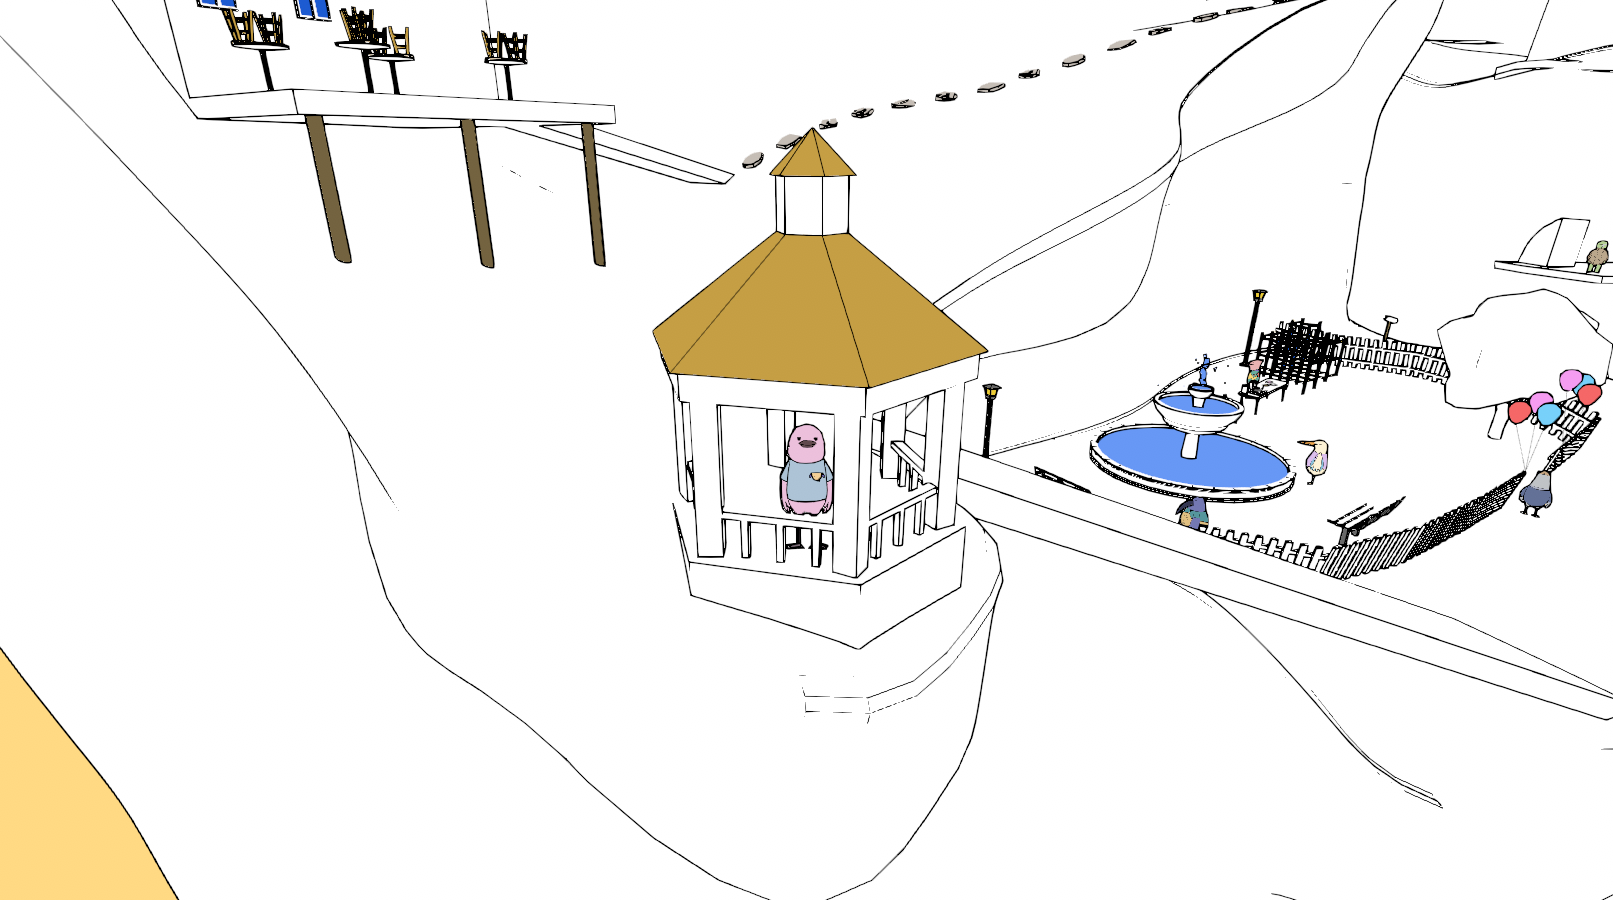
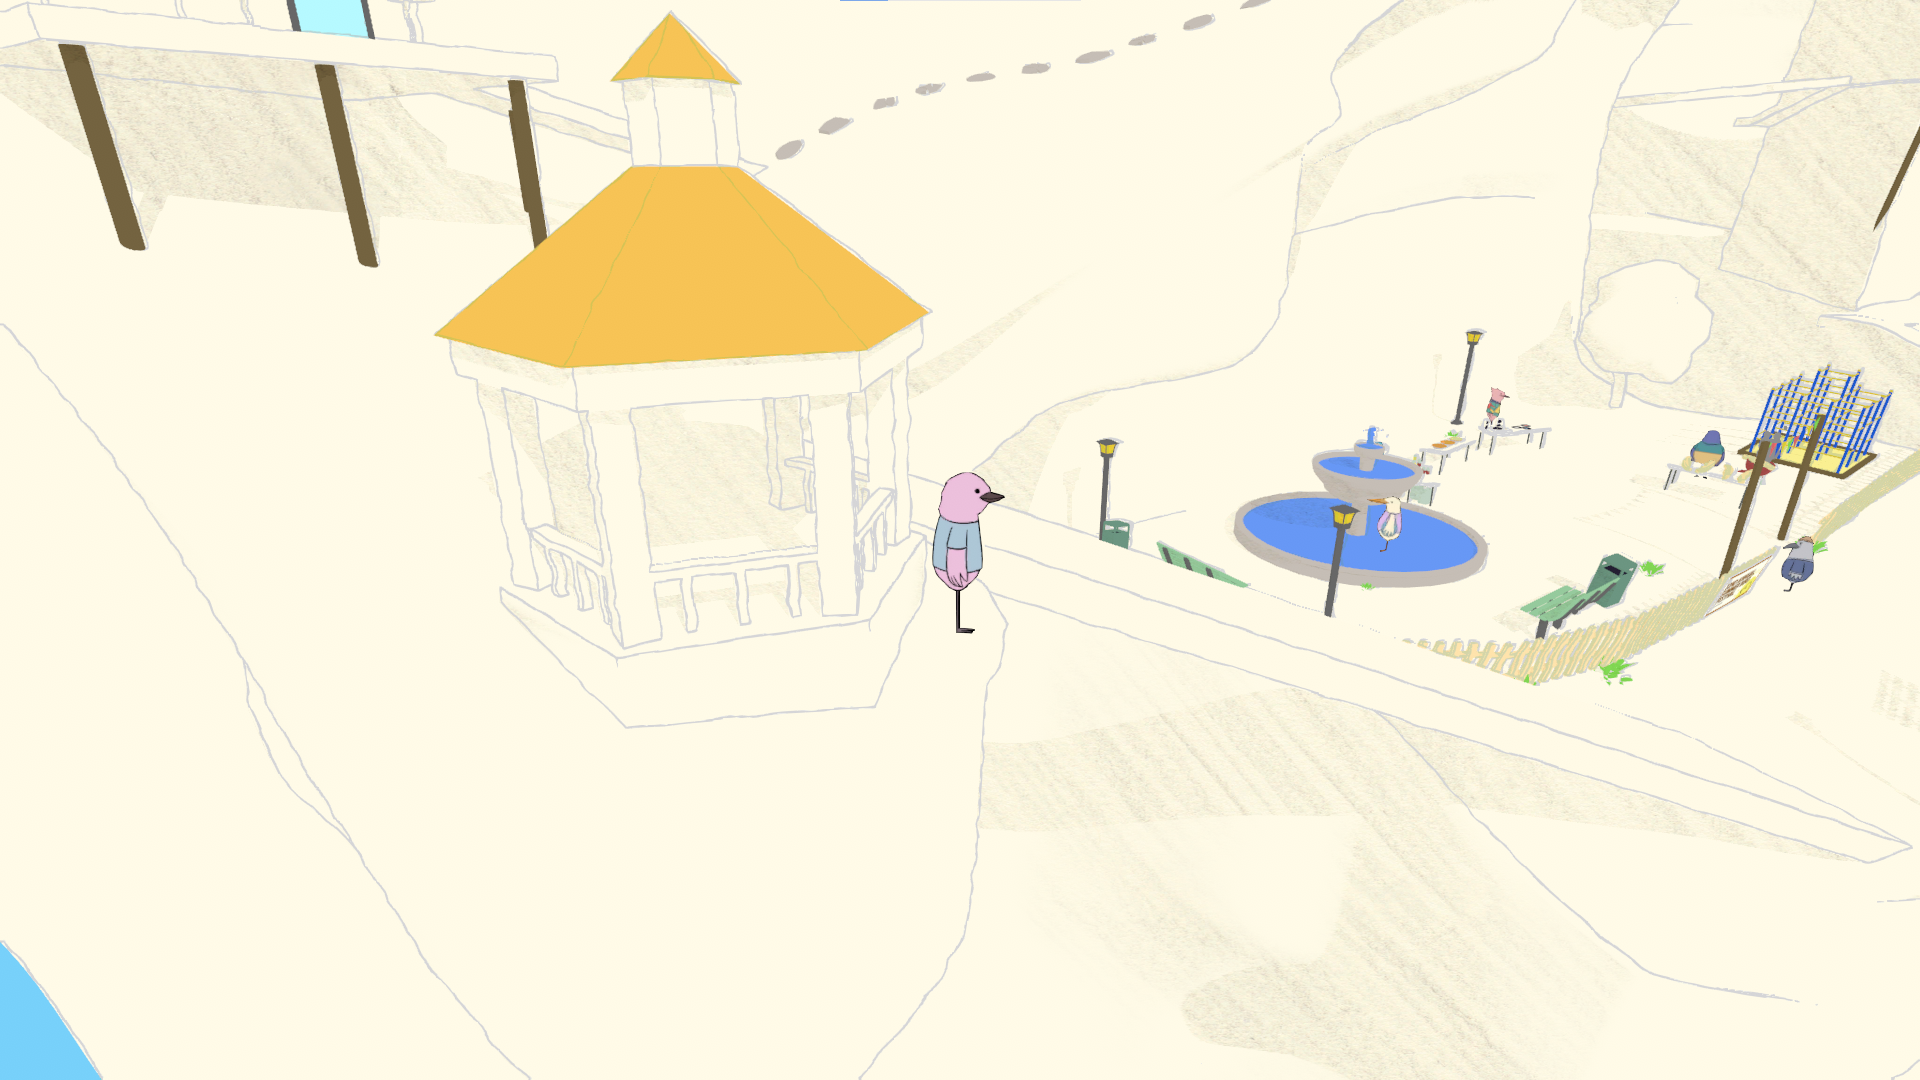
added new rules, updated colors, removed resume

diff --git a/index.html b/index.html
@@ -47,17 +47,13 @@
         <img src="media/homepage/beautiful_homepage.jpg"/>
         <img src="media/homepage/goodsex_homepage.png"/>
         <img src="media/homepage/birdtown_homepage.png"/>
+        <img src="media/homepage/newrules_homepage.jpg"/>
     </div>
 
     <div class="container">
         <nav class="dohide">
             <div class="navSidebar">
                 <a href="index.html" class="danny" style="font-size: 24.5px;">DANNY HAWK</a>
-                <div class="navLinks">
-                    <a class="inactive" href="about.html">ABOUT</a>
-                    <p>•</p>
-                    <a class="inactive" href="DannyHawk_Resume.pdf">RESUME</a>
-                </div>
                 <div class="social">
                     <a href="https://hawkdanny.itch.io/"><i id="itch" class="fab fa-itch-io"></i></a>
                     <a href="https://www.linkedin.com/in/hawkdanny/"><i id="linkedin" class="fab fa-linkedin-in"></i></a>
@@ -68,6 +64,8 @@
                 </div>
                 <div class="work">
                 <h3>WORK</h3>
+                <h5 class="y2021" style="padding-top:0px;">2021</h5>
+                <li class="y21 ev-s hl-s wr-s"><a href="https://newrules.website/2021/01/12/danny-hawk-folk-games-flash-communities-and-tiktok/"><p>Folk Games, Flash Communities, and Tiktok</p></a></li>
                 <h5 class="y2020" style="padding-top:0px;">2020</h5>
                 <li class="y20 ev-s hl-s vg-s"><a href="birdtown.html"><p>Bird Town</p></a></li>
                 <li class="y20 ev-s vi-s"><a href="saxophoneskateboard.html"><p>Saxophone Skateboard</p></a></li>
@@ -105,19 +103,32 @@
             <div class="header dohide">
                 <h1>Hi! My name's Danny and this is my portfolio!!! You can look at the
                 <a id="hl" class="filter" href="#highlights" onclick="filter('hl')">highlights</a>, or
-                <a id="ev" class="filter" href="#everything" onclick="filter('ev')">everything</a>. Other filters are
+                <a id="ev" class="filter" href="#everything" onclick="filter('ev')">everything</a>. <br><br>Other filters are
                 <a id="vg" class="filter" href="#videogames" onclick="filter('vg')">video games</a>,
                 <a id="ag" class="filter" href="#analoggames" onclick="filter('ag')">analog games</a>,
                 <a id="wb" class="filter" href="#web" onclick="filter('wb')">web</a>,
-                <a id="pc" class="filter" href="#physicalcomputing" onclick="filter('pc')">pcomp</a>,
+                <a id="pc" class="filter" href="#physicalcomputing" onclick="filter('pc')">physical computing</a>,
                 <a id="evn" class="filter" href="#events" onclick="filter('evn')">events</a>,
                 <!--<a id="ta" class="filter" href="#talks" onclick="filter('ta')">talks</a>,-->
-                <a id="vi" class="filter" href="#videos" onclick="filter('vi')">videos</a>, and
+                <a id="vi" class="filter" href="#videos" onclick="filter('vi')">videos</a>,
+                <a id="wr" class="filter" href="#writing" onclick="filter('wr')">writing</a> and
                 <a id="mi" class="filter" href="#misc" onclick="filter('mi')">misc</a>.<br>
-                I ask there is no flash photography, but please do enjoy your stay.
+                <br>I ask there is no flash photography, but please do enjoy your stay.
                 </h1>
             </div>
 
+
+            <a href="https://newrules.website/2021/01/12/danny-hawk-folk-games-flash-communities-and-tiktok/" class="ev hl wr">
+                <div id="newrules" class="project dohide" onmouseover="FadeInBackground(this)" onmouseout="FadeOutBackground(this)">
+                    <div class="projectInfo">
+                        <h1 class="projectTitle">FOLK GAMES, FLASH COMMUNITIES, AND TIKTOK</h1>
+                        <div class="projectDetails">
+                            <h5 class="projectDesc">An essay on how folk games have adapted to an algorihtmic world.</h5>
+                            <h5 class="projectCred">author</h5>
+                        </div>
+                    </div>
+                </div>
+            </a>
 
             <a href="birdtown.html" class="ev hl vg">
                 <div id="birdtown" class="project projectInvert dohide" onmouseover="FadeInBackground(this)" onmouseout="FadeOutBackground(this)">

diff --git a/css/global2.css b/css/global2.css
@@ -1,10 +1,11 @@
 :root {
-    --color-bg: rgb(238, 164, 201);
+    --color-bg: #ffffff;
     --color-header: #ffffff;
     --color-header2: #000000;
-    --color-text: #ffffff99;
-    --color-text2: #00000085;
+    --color-text: #00000085;
     --color-border: #000000;
+    --color-link: #ffc1e7;
+    --color-link-active: #f77ac7;
 }
 
 html {
@@ -96,7 +97,7 @@ nav a {
 }
 
 .navLinks a {
-    color: var(--color-text2);
+    color: var(--color-text);
 }
 
 .navLinks a:hover {
@@ -152,7 +153,7 @@ nav a {
     cursor: pointer;
     font-weight: 600;
     font-size: 14px;
-    color: var(--color-text2);
+    color: var(--color-text);
 }
 
 .navSidebar li a:hover {
@@ -169,6 +170,7 @@ nav a {
 .social {
     display: flex;
     justify-content: space-between;
+    padding-top: 15px;
 }
     .social i {
         color: #121212;
@@ -206,11 +208,11 @@ nav a {
 
 /*header*/
 .header a {
-    color: #FFFFFFAA;
+    color: var(--color-link);
 }
 
 .header a:hover {
-    color: #FFFFFF;
+    color: var(--color-link-active);
 }
 
 
@@ -225,8 +227,8 @@ nav a {
 }
 
 .filterActive {
-    color: white !important;
-    border-bottom: solid white 5px;
+    color: var(--color-link-active) !important;
+    border-bottom: solid var(--color-link-active) 5px;
 }
 
 
@@ -248,7 +250,7 @@ nav a {
 
 .projectInvert .projectTitle { color: var(--color-header2);}
 .projectInvert .projectDesc { color: var(--color-header2);}
-.projectInvert .projectCred { color: var(--color-text2);}
+.projectInvert .projectCred { color: var(--color-text);}
 
 .projectInfo {
     pointer-events: none;
@@ -292,6 +294,7 @@ nav a {
     margin: 0px;
 }
 
+#newrules { background-image: url(../media/homepage/newrules_homepage.png); }
 #birdtown { background-image: url(../media/homepage/birdtown_homepage.png); }
 #sax { background-image: url(../media/homepage/sax_homepage.jpg); }
 #folk { background-image: url(../media/homepage/folk_homepage.jpg); }
@@ -328,7 +331,7 @@ nav a {
     margin: 0px;
     font-size: 18px; 
     font-weight: bold;
-    color: var(--color-header);
+    color: var(--color-header2);
 }
 
 .projectPageContent {
@@ -366,7 +369,7 @@ nav a {
     font-size: 14px;
     padding-right: 15px;
     padding-top: 3px;
-    color: var(--color-header);
+    color: var(--color-header2);
 }
 
 .projectPageLinks {
@@ -374,14 +377,14 @@ nav a {
 }
 
 .projectPageLinks p {
-    color: var(--color-header);
+    color: var(--color-header2);
     font-size: 14px;
     display: block;
     margin: 0px;
 }
 
 .projectPageLinks a {
-    color: var(--color-header);
+    color: var(--color-header2);
     font-size: 14px;
     font-weight: bold;
     display: inline;
@@ -420,7 +423,7 @@ nav a {
 
 .fancyLink {
     font-size: 14px;
-    color: white;
+    color: black;
     position: relative;
 }
 
@@ -431,7 +434,7 @@ nav a {
     height: 1px;
     bottom: 0;
     left: 0;
-    background-color: white;
+    background-color: black;
     visibility: hidden;
     -webkit-transform: scaleX(0);
     transform: scaleX(0);
@@ -462,11 +465,11 @@ nav a {
 }
 
 .meLink {
-    color: var(--color-text2);
+    color: var(--color-text);
 }
 
 .meLink:hover {
-    border-bottom: 2px solid var(--color-text2);
+    border-bottom: 2px solid var(--color-text);
 }
 
 @media only screen and (max-width: 1470px) {

diff --git a/js/main2.js b/js/main2.js
@@ -33,6 +33,7 @@ function init() {
     years.y2018 = document.querySelector(".y2018");
     years.y2019 = document.querySelector(".y2019");
     years.y2020 = document.querySelector(".y2020");
+    years.y2021 = document.querySelector(".y2021");
 
     //sidebar year projects
     //years.y2015s = document.querySelectorAll(".y15");
@@ -41,6 +42,7 @@ function init() {
     years.y2018s = document.querySelectorAll(".y18");
     years.y2019s = document.querySelectorAll(".y19");
     years.y2020s = document.querySelectorAll(".y20");
+    years.y2021s = document.querySelectorAll(".y21");
 
     let url = new URL(window.location.href);
     if (url.hash !== "")
@@ -102,6 +104,9 @@ function filterFromURL(hash) {
         case "#videos":
             filter('vi');
         break;
+        case "#writing":
+            filter('wr');
+        break;
     }
 }
 
@@ -140,6 +145,7 @@ function filterProjects(clss) {
     filterSidebarYear(years.y2018, years.y2018s);
     filterSidebarYear(years.y2019, years.y2019s);
     filterSidebarYear(years.y2020, years.y2020s);
+    filterSidebarYear(years.y2021, years.y2021s);
 }
 
 function filterSidebarYear(year, years) {
@@ -218,6 +224,9 @@ function FadeInBackground(elmnt)
             break;
         case 'tabs':
             document.body.style.backgroundImage = "url('media/homepage/tabs_homepage.jpg')";
+            break;
+        case 'newrules':
+            document.body.style.backgroundImage = "url('media/homepage/newrules_homepage.png')";
             break;
     }
 }

diff --git a/anythingbutgames.html b/anythingbutgames.html
@@ -36,11 +36,6 @@
     <nav>
         <div class="navSidebar">
             <a href="index.html" class="danny" style="font-size: 24.5px;">DANNY HAWK</a>
-            <div class="navLinks" style="border-bottom: none;">
-                <a class="inactive" href="about.html">ABOUT</a>
-                <p>•</p>
-                <a class="inactive" href="DannyHawk_Resume.pdf">RESUME</a>
-            </div>
             <div class="social">
                 <a href="https://hawkdanny.itch.io/"><i id="itch" class="fab fa-itch-io"></i></a>
                 <a href="https://www.linkedin.com/in/hawkdanny/"><i id="linkedin" class="fab fa-linkedin-in"></i></a>

diff --git a/court.html b/court.html
@@ -36,11 +36,6 @@
     <nav>
         <div class="navSidebar">
             <a href="index.html" class="danny" style="font-size: 24.5px;">DANNY HAWK</a>
-            <div class="navLinks" style="border-bottom: none;">
-                <a class="inactive" href="about.html">ABOUT</a>
-                <p>•</p>
-                <a class="inactive" href="DannyHawk_Resume.pdf">RESUME</a>
-            </div>
             <div class="social">
                 <a href="https://hawkdanny.itch.io/"><i id="itch" class="fab fa-itch-io"></i></a>
                 <a href="https://www.linkedin.com/in/hawkdanny/"><i id="linkedin" class="fab fa-linkedin-in"></i></a>

diff --git a/dog.html b/dog.html
@@ -36,11 +36,6 @@
     <nav>
         <div class="navSidebar">
             <a href="index.html" class="danny" style="font-size: 24.5px;">DANNY HAWK</a>
-            <div class="navLinks" style="border-bottom: none;">
-                <a class="inactive" href="about.html">ABOUT</a>
-                <p>•</p>
-                <a class="inactive" href="DannyHawk_Resume.pdf">RESUME</a>
-            </div>
             <div class="social">
                 <a href="https://hawkdanny.itch.io/"><i id="itch" class="fab fa-itch-io"></i></a>
                 <a href="https://www.linkedin.com/in/hawkdanny/"><i id="linkedin" class="fab fa-linkedin-in"></i></a>

diff --git a/imagine.html b/imagine.html
@@ -36,11 +36,6 @@
     <nav>
         <div class="navSidebar">
             <a href="index.html" class="danny" style="font-size: 24.5px;">DANNY HAWK</a>
-            <div class="navLinks" style="border-bottom: none;">
-                <a class="inactive" href="about.html">ABOUT</a>
-                <p>•</p>
-                <a class="inactive" href="DannyHawk_Resume.pdf">RESUME</a>
-            </div>
             <div class="social">
                 <a href="https://hawkdanny.itch.io/"><i id="itch" class="fab fa-itch-io"></i></a>
                 <a href="https://www.linkedin.com/in/hawkdanny/"><i id="linkedin" class="fab fa-linkedin-in"></i></a>

diff --git a/litrocks.html b/litrocks.html
@@ -36,11 +36,6 @@
     <nav>
         <div class="navSidebar">
             <a href="index.html" class="danny" style="font-size: 24.5px;">DANNY HAWK</a>
-            <div class="navLinks" style="border-bottom: none;">
-                <a class="inactive" href="about.html">ABOUT</a>
-                <p>•</p>
-                <a class="inactive" href="DannyHawk_Resume.pdf">RESUME</a>
-            </div>
             <div class="social">
                 <a href="https://hawkdanny.itch.io/"><i id="itch" class="fab fa-itch-io"></i></a>
                 <a href="https://www.linkedin.com/in/hawkdanny/"><i id="linkedin" class="fab fa-linkedin-in"></i></a>

diff --git a/threetabs.html b/threetabs.html
@@ -36,11 +36,6 @@
     <nav>
         <div class="navSidebar">
             <a href="index.html" class="danny" style="font-size: 24.5px;">DANNY HAWK</a>
-            <div class="navLinks" style="border-bottom: none;">
-                <a class="inactive" href="about.html">ABOUT</a>
-                <p>•</p>
-                <a class="inactive" href="DannyHawk_Resume.pdf">RESUME</a>
-            </div>
             <div class="social">
                 <a href="https://hawkdanny.itch.io/"><i id="itch" class="fab fa-itch-io"></i></a>
                 <a href="https://www.linkedin.com/in/hawkdanny/"><i id="linkedin" class="fab fa-linkedin-in"></i></a>

diff --git a/beautiful.html b/beautiful.html
@@ -36,11 +36,6 @@
     <nav>
         <div class="navSidebar">
             <a href="index.html" class="danny" style="font-size: 24.5px;">DANNY HAWK</a>
-            <div class="navLinks" style="border-bottom: none;">
-                <a href="about.html">ABOUT</a>
-                <p>•</p>
-                <a href="DannyHawk_Resume.pdf">RESUME</a>
-            </div>
             <div class="social">
                 <a href="https://hawkdanny.itch.io/"><i id="itch" class="fab fa-itch-io"></i></a>
                 <a href="https://www.linkedin.com/in/hawkdanny/"><i id="linkedin" class="fab fa-linkedin-in"></i></a>

diff --git a/birdtown.html b/birdtown.html
@@ -36,11 +36,6 @@
     <nav>
         <div class="navSidebar">
             <a href="index.html" class="danny" style="font-size: 24.5px;">DANNY HAWK</a>
-            <div class="navLinks" style="border-bottom: none;">
-                <a href="about.html">ABOUT</a>
-                <p>•</p>
-                <a href="DannyHawk_Resume.pdf">RESUME</a>
-            </div>
             <div class="social">
                 <a href="https://hawkdanny.itch.io/"><i id="itch" class="fab fa-itch-io"></i></a>
                 <a href="https://www.linkedin.com/in/hawkdanny/"><i id="linkedin" class="fab fa-linkedin-in"></i></a>

diff --git a/boop2.html b/boop2.html
@@ -36,11 +36,6 @@
     <nav>
         <div class="navSidebar">
             <a href="index.html" class="danny" style="font-size: 24.5px;">DANNY HAWK</a>
-            <div class="navLinks" style="border-bottom: none;">
-                <a href="about.html">ABOUT</a>
-                <p>•</p>
-                <a href="DannyHawk_Resume.pdf">RESUME</a>
-            </div>
             <div class="social">
                 <a href="https://hawkdanny.itch.io/"><i id="itch" class="fab fa-itch-io"></i></a>
                 <a href="https://www.linkedin.com/in/hawkdanny/"><i id="linkedin" class="fab fa-linkedin-in"></i></a>
